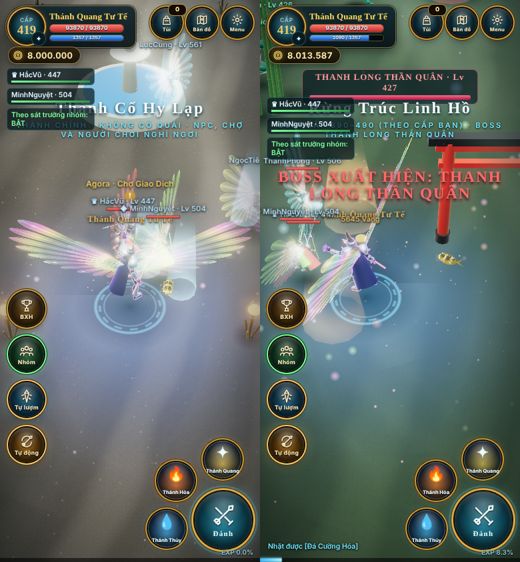
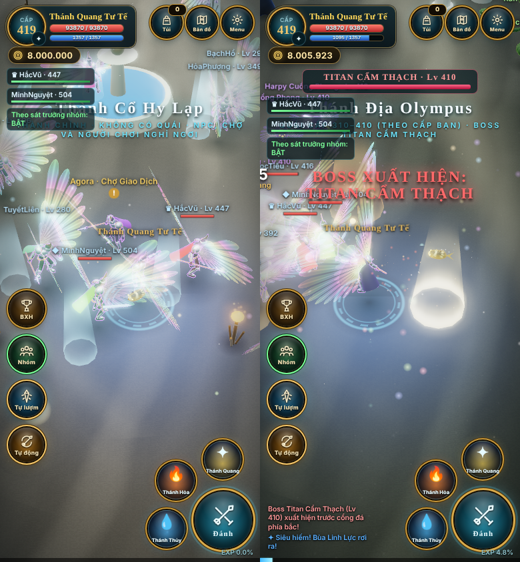
Vực Lam: hero 20% smaller; bots and NPCs get the new look and rainbow wings
Claude-Session: https://claude.ai/code/session_019JwWWoX9XVnj9TTcGWtfgR

diff --git a/game/demo-day-bien/index.html b/game/demo-day-bien/index.html
@@ -1376,7 +1376,7 @@ function cliffRing(hex) { for (let k = 0; k < 22; k++) { const a = (k / 22) * 6.
 // HERO LOOK v2 — approved in the A/B test: richer armour, purple glow outline (40%),
 // hero size +60%, crisp feather wings with a rainbow wave (80%, speed 25%), tip glints and falling sparkles
 // =====================================================================
-const LOOK = { size: 1.6, outline: 0.016, outlineCol: 0xb46aff, outlineGlow: 2.6, rainbow: 0.8 * 1.25, waveSpeed: 0.4 + 0.25 * 2.4 };
+const LOOK = { size: 1.28, outline: 0.016, outlineCol: 0xb46aff, outlineGlow: 2.6, rainbow: 0.8 * 1.25, waveSpeed: 0.4 + 0.25 * 2.4 };
 (function richerArmour() { const H = heroMats;
   H.suit.color.multiplyScalar(0.45); H.suit.userData.u.uRim.value.setHex(0x9fd0ff); H.suit.userData.u.uRimStr.value = 0.75; H.suit.userData.u.uRimPow.value = 2.2;
   H.steel.color.multiplyScalar(0.62); H.steel.envMapIntensity *= 1.7; H.steel.userData.u.uRimPow.value = 2.2;
@@ -1389,10 +1389,15 @@ const LOOK_TH = { value: LOOK.outline };
 function lookOutlineMat(k) { const m = new THREE.MeshBasicMaterial({ color: LOOK.outlineCol, side: THREE.BackSide });
   m.onBeforeCompile = s => { s.uniforms.uTh = LOOK_TH; s.vertexShader = 'uniform float uTh;\n' + s.vertexShader.replace('#include <begin_vertex>', `vec3 transformed = position + normal * uTh * ${k.toFixed(3)};`); }; m.customProgramCacheKey = () => 'heroOutline' + k; return m; }
 const lookOM = lookOutlineMat(1), lookOMS = lookOutlineMat(0.65);
-function heroLookBuild(model) { const meshes = []; model.traverse(o => { if (o.isMesh) meshes.push(o); });
+function lookOutline(model) { const meshes = []; model.traverse(o => { if (o.isMesh) meshes.push(o); });
   for (const o of meshes) { if (o.material === heroMats.glow) continue; let ol; if (o.isSkinnedMesh) { ol = new THREE.SkinnedMesh(o.geometry, lookOM); ol.bind(o.skeleton, o.bindMatrix); } else ol = new THREE.Mesh(o.geometry, lookOMS);
-    ol.position.copy(o.position); ol.quaternion.copy(o.quaternion); ol.scale.copy(o.scale); ol.frustumCulled = false; o.parent.add(ol); }
-  heroG.scale.setScalar(LOOK.size); }
+    ol.position.copy(o.position); ol.quaternion.copy(o.quaternion); ol.scale.copy(o.scale); ol.frustumCulled = false; o.parent.add(ol); } }
+function heroLookBuild(model) { lookOutline(model); heroG.scale.setScalar(LOOK.size); }
+// the same armour treatment for bots and NPCs (their own coloured materials)
+function lookMats(M) { M.suit.color.multiplyScalar(0.45); M.suit.userData.u.uRim.value.setHex(0x9fd0ff); M.suit.userData.u.uRimStr.value = 0.75; M.suit.userData.u.uRimPow.value = 2.2;
+  M.steel.color.multiplyScalar(0.62); M.steel.envMapIntensity *= 1.7; M.steel.userData.u.uRim.value.setHex(0xcfeaff); M.steel.userData.u.uRimStr.value = 0.6; M.steel.userData.u.uRimPow.value = 2.2;
+  M.dark.color.multiplyScalar(0.55); M.dark.envMapIntensity *= 1.45; M.dark.userData.u.uRim.value.setHex(0xa8d8ff); M.dark.userData.u.uRimStr.value = 0.55; M.dark.userData.u.uRimPow.value = 2.2;
+  M.cape.color.offsetHSL(0, 0.2, -0.12); M.cape.emissive.multiplyScalar(1.6); M.cape.userData.u.uRimStr.value *= 1.6; return M; }
 // light that only matters around the hero, firmer contact shadow, faint dark halo behind for contrast
 const lookKey = new THREE.PointLight(0xe8f0ff, 5, 4.5 * LOOK.size, 1.4); scene.add(lookKey);
 const lookBlob = blobMat.clone(); lookBlob.opacity = 1; heroBlob.material = lookBlob; heroBlob.scale.multiplyScalar(1.25 * LOOK.size);
@@ -2223,14 +2228,14 @@ function charMats(hue, cls) { const c = (s, l) => new THREE.Color().setHSL(hue, 
     cape: stylized({ color: c(0.7, 0.32), roughness: 0.7, side: THREE.DoubleSide, emissive: c(0.7, 0.08) }, 0x9f8bff, 0.5, 2), glow: new THREE.MeshBasicMaterial({ color: new THREE.Color(CLS[cls].glow).multiplyScalar(2.4) }) }; }
 function makeChar(cls, hue, wingTier) {
   const g = new THREE.Group(), body = new THREE.Group(); g.add(body); scene.add(g);
-  const model = SkeletonUtils.clone(heroGLTF.scene); const T3 = { tip: null }; buildArmor(model, cls, charMats(hue, cls), T3);
+  const model = SkeletonUtils.clone(heroGLTF.scene); const T3 = { tip: null }; buildArmor(model, cls, lookMats(charMats(hue, cls)), T3); lookOutline(model);
   const box = new THREE.Box3().setFromObject(model); const k = HERO_H / (box.max.y - box.min.y); model.scale.setScalar(k); model.position.y = -box.min.y * k; body.add(model);
   model.traverse(o => { if (o.isMesh) o.frustumCulled = false; });
   const mx = new THREE.AnimationMixer(model), acts = {}; for (const c of heroGLTF.animations) acts[c.name] = mx.clipAction(c);
-  let wg = null, wR = null, wL = null; if (wingTier >= 0) { const wm = wingMat.clone(); wm.uniforms.uTime = U.uTime; const W = WTIER[Math.min(5, wingTier)]; wm.uniforms.uRoot.value.setHex(W[0]); wm.uniforms.uTip.value.setHex(new THREE.Color().setHSL(hue, 0.9, 0.5).getHex()); wm.uniforms.uEdge.value.setHex(W[2]); wm.uniforms.uB.value = 0.62 + wingTier * 0.05;
+  let wg = null, wR = null, wL = null; if (wingTier >= 0) { const wm = wingB.clone(); wm.uniforms.uTime = U.uTime; const W = WTIER[Math.min(5, wingTier)]; wm.uniforms.uRoot.value.setHex(W[0]); wm.uniforms.uTip.value.setHex(new THREE.Color().setHSL(hue, 0.9, 0.5).getHex()); wm.uniforms.uEdge.value.setHex(W[2]); wm.uniforms.uB.value = 0.62 + wingTier * 0.05;
     wg = new THREE.Group(); wg.position.set(0, HERO_H * 0.66, -0.3 * HERO_H / 2.3); wg.scale.setScalar(HERO_H / 2.3 * 1.15 * WSCALE[Math.min(5, wingTier)]); body.add(wg);
     wR = new THREE.Mesh(wingGeo, wm); wR.position.x = 0.1; wg.add(wR); wL = new THREE.Mesh(wingGeo, wm); wL.scale.x = -1; wL.position.x = -0.1; wg.add(wL); }
-  const shadow = blob(1.5); scene.add(shadow);
+  g.scale.setScalar(LOOK.size); const shadow = blob(1.5 * LOOK.size); scene.add(shadow);
   const C = { g, body, model, mx, acts, cur: null, tip: T3.tip, wR, wL, shadow, melee: CLS[cls].melee, phase: rr(0, 6.28) };
   C.idle = C.melee ? 'Sword_Idle' : 'Spell_Simple_Idle_Loop'; C.atk = C.melee ? 'Sword_Attack' : 'Spell_Simple_Shoot';
   mx.addEventListener('finished', () => charPlay(C, C.idle, 0.25)); charPlay(C, C.idle, 0); return C;
@@ -2404,8 +2409,8 @@ function updateLabels() {
   const place = (el, x, y, z) => { const [sx, sy, vis] = toScreen(tmpV.set(x, y, z)); if (!vis || sx < -80 || sx > innerWidth + 80 || sy < -40 || sy > innerHeight + 40) { el.style.display = 'none'; return; } el.style.display = ''; el.style.transform = `translate(${sx}px,${sy}px) translate(-50%,-100%)`; };
   for (const m of mobs) { if (m.dead) continue; place(m.el, m.x, m.T.y + m.T.lh * m.scale + 0.15, m.z); if (!m.boss && !m.mini) m.hpEl.style.visibility = m.hp < m.maxHp ? 'visible' : 'hidden'; m.bar.style.transform = `scaleX(${Math.max(0, m.hp / m.maxHp)})`; }
   for (const l of loots) place(l.el, l.x, 1.05, l.z);
-  for (const e of ents.values()) { if (e.dead) { e.el.style.display = 'none'; continue; } place(e.el, e.pos.x, e.C.g.position.y + HERO_H + 0.45, e.pos.z); e.bar.style.transform = `scaleX(${e.hp / e.maxHp})`; e.el.querySelector('.hp').style.visibility = e.hp < e.maxHp || inParty(e.b) ? 'visible' : 'hidden'; }
-  for (const e of npcEnts) place(e.el, e.pos.x, HERO_H + 0.35, e.pos.z);
+  for (const e of ents.values()) { if (e.dead) { e.el.style.display = 'none'; continue; } place(e.el, e.pos.x, e.C.g.position.y + HERO_H * LOOK.size + 0.4, e.pos.z); e.bar.style.transform = `scaleX(${e.hp / e.maxHp})`; e.el.querySelector('.hp').style.visibility = e.hp < e.maxHp || inParty(e.b) ? 'visible' : 'hidden'; }
+  for (const e of npcEnts) place(e.el, e.pos.x, HERO_H * LOOK.size + 0.3, e.pos.z);
   heroLabel.textContent = CLS[S.cls].name; heroLabel.style.display = S.dead ? 'none' : ''; if (!S.dead) place(heroLabel, S.pos.x, heroG.position.y + HERO_H * LOOK.size + 0.5, S.pos.z);
 }
 

diff --git a/game/demo-day-bien/src/d2_look.js b/game/demo-day-bien/src/d2_look.js
@@ -3,7 +3,7 @@
 // HERO LOOK v2 — approved in the A/B test: richer armour, purple glow outline (40%),
 // hero size +60%, crisp feather wings with a rainbow wave (80%, speed 25%), tip glints and falling sparkles
 // =====================================================================
-const LOOK = { size: 1.6, outline: 0.016, outlineCol: 0xb46aff, outlineGlow: 2.6, rainbow: 0.8 * 1.25, waveSpeed: 0.4 + 0.25 * 2.4 };
+const LOOK = { size: 1.28, outline: 0.016, outlineCol: 0xb46aff, outlineGlow: 2.6, rainbow: 0.8 * 1.25, waveSpeed: 0.4 + 0.25 * 2.4 };
 (function richerArmour() { const H = heroMats;
   H.suit.color.multiplyScalar(0.45); H.suit.userData.u.uRim.value.setHex(0x9fd0ff); H.suit.userData.u.uRimStr.value = 0.75; H.suit.userData.u.uRimPow.value = 2.2;
   H.steel.color.multiplyScalar(0.62); H.steel.envMapIntensity *= 1.7; H.steel.userData.u.uRimPow.value = 2.2;
@@ -16,10 +16,15 @@ const LOOK_TH = { value: LOOK.outline };
 function lookOutlineMat(k) { const m = new THREE.MeshBasicMaterial({ color: LOOK.outlineCol, side: THREE.BackSide });
   m.onBeforeCompile = s => { s.uniforms.uTh = LOOK_TH; s.vertexShader = 'uniform float uTh;\n' + s.vertexShader.replace('#include <begin_vertex>', `vec3 transformed = position + normal * uTh * ${k.toFixed(3)};`); }; m.customProgramCacheKey = () => 'heroOutline' + k; return m; }
 const lookOM = lookOutlineMat(1), lookOMS = lookOutlineMat(0.65);
-function heroLookBuild(model) { const meshes = []; model.traverse(o => { if (o.isMesh) meshes.push(o); });
+function lookOutline(model) { const meshes = []; model.traverse(o => { if (o.isMesh) meshes.push(o); });
   for (const o of meshes) { if (o.material === heroMats.glow) continue; let ol; if (o.isSkinnedMesh) { ol = new THREE.SkinnedMesh(o.geometry, lookOM); ol.bind(o.skeleton, o.bindMatrix); } else ol = new THREE.Mesh(o.geometry, lookOMS);
-    ol.position.copy(o.position); ol.quaternion.copy(o.quaternion); ol.scale.copy(o.scale); ol.frustumCulled = false; o.parent.add(ol); }
-  heroG.scale.setScalar(LOOK.size); }
+    ol.position.copy(o.position); ol.quaternion.copy(o.quaternion); ol.scale.copy(o.scale); ol.frustumCulled = false; o.parent.add(ol); } }
+function heroLookBuild(model) { lookOutline(model); heroG.scale.setScalar(LOOK.size); }
+// the same armour treatment for bots and NPCs (their own coloured materials)
+function lookMats(M) { M.suit.color.multiplyScalar(0.45); M.suit.userData.u.uRim.value.setHex(0x9fd0ff); M.suit.userData.u.uRimStr.value = 0.75; M.suit.userData.u.uRimPow.value = 2.2;
+  M.steel.color.multiplyScalar(0.62); M.steel.envMapIntensity *= 1.7; M.steel.userData.u.uRim.value.setHex(0xcfeaff); M.steel.userData.u.uRimStr.value = 0.6; M.steel.userData.u.uRimPow.value = 2.2;
+  M.dark.color.multiplyScalar(0.55); M.dark.envMapIntensity *= 1.45; M.dark.userData.u.uRim.value.setHex(0xa8d8ff); M.dark.userData.u.uRimStr.value = 0.55; M.dark.userData.u.uRimPow.value = 2.2;
+  M.cape.color.offsetHSL(0, 0.2, -0.12); M.cape.emissive.multiplyScalar(1.6); M.cape.userData.u.uRimStr.value *= 1.6; return M; }
 // light that only matters around the hero, firmer contact shadow, faint dark halo behind for contrast
 const lookKey = new THREE.PointLight(0xe8f0ff, 5, 4.5 * LOOK.size, 1.4); scene.add(lookKey);
 const lookBlob = blobMat.clone(); lookBlob.opacity = 1; heroBlob.material = lookBlob; heroBlob.scale.multiplyScalar(1.25 * LOOK.size);

diff --git a/game/demo-day-bien/src/i_world.js b/game/demo-day-bien/src/i_world.js
@@ -26,14 +26,14 @@ function charMats(hue, cls) { const c = (s, l) => new THREE.Color().setHSL(hue, 
     cape: stylized({ color: c(0.7, 0.32), roughness: 0.7, side: THREE.DoubleSide, emissive: c(0.7, 0.08) }, 0x9f8bff, 0.5, 2), glow: new THREE.MeshBasicMaterial({ color: new THREE.Color(CLS[cls].glow).multiplyScalar(2.4) }) }; }
 function makeChar(cls, hue, wingTier) {
   const g = new THREE.Group(), body = new THREE.Group(); g.add(body); scene.add(g);
-  const model = SkeletonUtils.clone(heroGLTF.scene); const T3 = { tip: null }; buildArmor(model, cls, charMats(hue, cls), T3);
+  const model = SkeletonUtils.clone(heroGLTF.scene); const T3 = { tip: null }; buildArmor(model, cls, lookMats(charMats(hue, cls)), T3); lookOutline(model);
   const box = new THREE.Box3().setFromObject(model); const k = HERO_H / (box.max.y - box.min.y); model.scale.setScalar(k); model.position.y = -box.min.y * k; body.add(model);
   model.traverse(o => { if (o.isMesh) o.frustumCulled = false; });
   const mx = new THREE.AnimationMixer(model), acts = {}; for (const c of heroGLTF.animations) acts[c.name] = mx.clipAction(c);
-  let wg = null, wR = null, wL = null; if (wingTier >= 0) { const wm = wingMat.clone(); wm.uniforms.uTime = U.uTime; const W = WTIER[Math.min(5, wingTier)]; wm.uniforms.uRoot.value.setHex(W[0]); wm.uniforms.uTip.value.setHex(new THREE.Color().setHSL(hue, 0.9, 0.5).getHex()); wm.uniforms.uEdge.value.setHex(W[2]); wm.uniforms.uB.value = 0.62 + wingTier * 0.05;
+  let wg = null, wR = null, wL = null; if (wingTier >= 0) { const wm = wingB.clone(); wm.uniforms.uTime = U.uTime; const W = WTIER[Math.min(5, wingTier)]; wm.uniforms.uRoot.value.setHex(W[0]); wm.uniforms.uTip.value.setHex(new THREE.Color().setHSL(hue, 0.9, 0.5).getHex()); wm.uniforms.uEdge.value.setHex(W[2]); wm.uniforms.uB.value = 0.62 + wingTier * 0.05;
     wg = new THREE.Group(); wg.position.set(0, HERO_H * 0.66, -0.3 * HERO_H / 2.3); wg.scale.setScalar(HERO_H / 2.3 * 1.15 * WSCALE[Math.min(5, wingTier)]); body.add(wg);
     wR = new THREE.Mesh(wingGeo, wm); wR.position.x = 0.1; wg.add(wR); wL = new THREE.Mesh(wingGeo, wm); wL.scale.x = -1; wL.position.x = -0.1; wg.add(wL); }
-  const shadow = blob(1.5); scene.add(shadow);
+  g.scale.setScalar(LOOK.size); const shadow = blob(1.5 * LOOK.size); scene.add(shadow);
   const C = { g, body, model, mx, acts, cur: null, tip: T3.tip, wR, wL, shadow, melee: CLS[cls].melee, phase: rr(0, 6.28) };
   C.idle = C.melee ? 'Sword_Idle' : 'Spell_Simple_Idle_Loop'; C.atk = C.melee ? 'Sword_Attack' : 'Spell_Simple_Shoot';
   mx.addEventListener('finished', () => charPlay(C, C.idle, 0.25)); charPlay(C, C.idle, 0); return C;

diff --git a/game/demo-day-bien/src/h_ui.js b/game/demo-day-bien/src/h_ui.js
@@ -34,8 +34,8 @@ function updateLabels() {
   const place = (el, x, y, z) => { const [sx, sy, vis] = toScreen(tmpV.set(x, y, z)); if (!vis || sx < -80 || sx > innerWidth + 80 || sy < -40 || sy > innerHeight + 40) { el.style.display = 'none'; return; } el.style.display = ''; el.style.transform = `translate(${sx}px,${sy}px) translate(-50%,-100%)`; };
   for (const m of mobs) { if (m.dead) continue; place(m.el, m.x, m.T.y + m.T.lh * m.scale + 0.15, m.z); if (!m.boss && !m.mini) m.hpEl.style.visibility = m.hp < m.maxHp ? 'visible' : 'hidden'; m.bar.style.transform = `scaleX(${Math.max(0, m.hp / m.maxHp)})`; }
   for (const l of loots) place(l.el, l.x, 1.05, l.z);
-  for (const e of ents.values()) { if (e.dead) { e.el.style.display = 'none'; continue; } place(e.el, e.pos.x, e.C.g.position.y + HERO_H + 0.45, e.pos.z); e.bar.style.transform = `scaleX(${e.hp / e.maxHp})`; e.el.querySelector('.hp').style.visibility = e.hp < e.maxHp || inParty(e.b) ? 'visible' : 'hidden'; }
-  for (const e of npcEnts) place(e.el, e.pos.x, HERO_H + 0.35, e.pos.z);
+  for (const e of ents.values()) { if (e.dead) { e.el.style.display = 'none'; continue; } place(e.el, e.pos.x, e.C.g.position.y + HERO_H * LOOK.size + 0.4, e.pos.z); e.bar.style.transform = `scaleX(${e.hp / e.maxHp})`; e.el.querySelector('.hp').style.visibility = e.hp < e.maxHp || inParty(e.b) ? 'visible' : 'hidden'; }
+  for (const e of npcEnts) place(e.el, e.pos.x, HERO_H * LOOK.size + 0.3, e.pos.z);
   heroLabel.textContent = CLS[S.cls].name; heroLabel.style.display = S.dead ? 'none' : ''; if (!S.dead) place(heroLabel, S.pos.x, heroG.position.y + HERO_H * LOOK.size + 0.5, S.pos.z);
 }
 

diff --git a/claude/handoff-nghien-cuu-ban-dau.md b/claude/handoff-nghien-cuu-ban-dau.md
@@ -364,3 +364,4 @@ hệ thống kỹ năng nguyên tố, tầng sát thương, lưu đám mây.
 - `src/d2_look.js` (ghép sau e2_myth.js): `LOOK` = { size 1.6, outline 0.016 tím glow nhịp sáng, rainbow 1.0, waveSpeed 1.0 }. Giáp đậm hơn (thép/áo lót/giáp tối tối hơn, phản chiếu mạnh hơn; áo choàng bão hòa hơn), viền tím glow quanh thân + giáp + vũ khí, đèn trắng quanh nhân vật, bóng chân đậm, quầng tối sau lưng, cánh `wingB` (lông tách rõ + sóng cầu vồng gốc→ngọn chỉ trên lông + lấp lánh đầu lông + hạt cầu vồng rơi).
 - Móc vào game: `heroLookBuild(model)` trong buildHero3D, `heroLookTick` trong vòng lặp, rim thép/giáp tối trong applyGearVisuals đổi sang tông lạnh (trước đây đổi theo màu cấp cường hóa). Nhãn tên hero cao theo cỡ mới.
 - Chỉ áp cho nhân vật người chơi; bot/NPC giữ như cũ. Trang A/B (`ab.js`) giữ làm lưu trữ; nếu dựng lại trang A/B cần bỏ d2_look.js và 2 lệnh móc ra khỏi bản ghép.
+- Cập nhật: cỡ nhân vật giảm 20% (`LOOK.size` 1,6 → 1,28). Bot và NPC dùng cùng giao diện: `lookMats` (giáp đậm, rim lạnh), `lookOutline` (viền tím glow dùng chung vật liệu), cánh bot = `wingB.clone()` (sóng cầu vồng) theo màu riêng mỗi bot, cùng cỡ `LOOK.size`. Đèn/quầng tối/hạt rơi chỉ cho hero (tiết kiệm hiệu năng).
